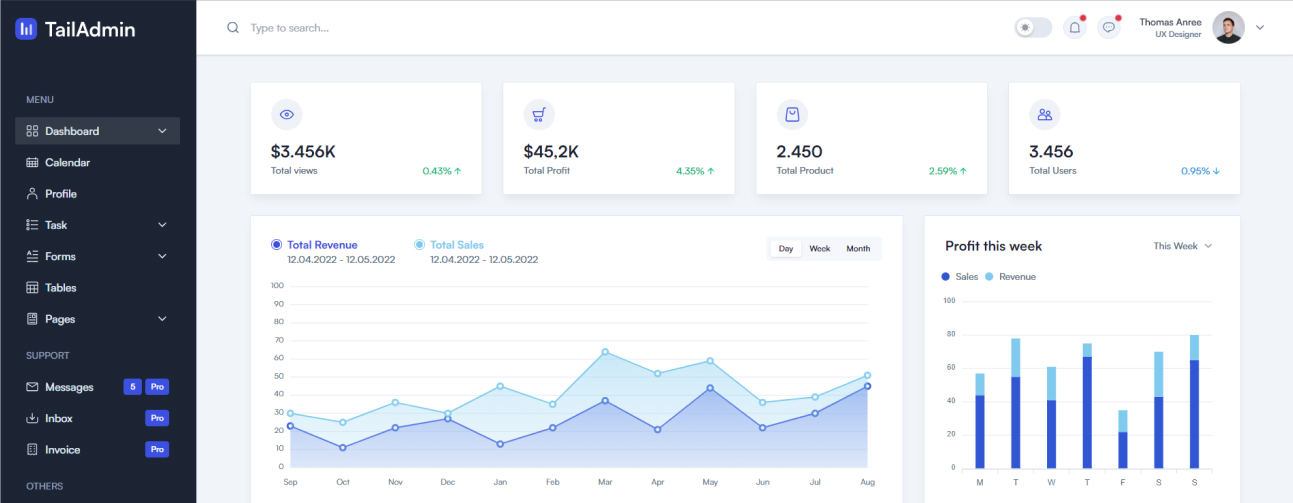
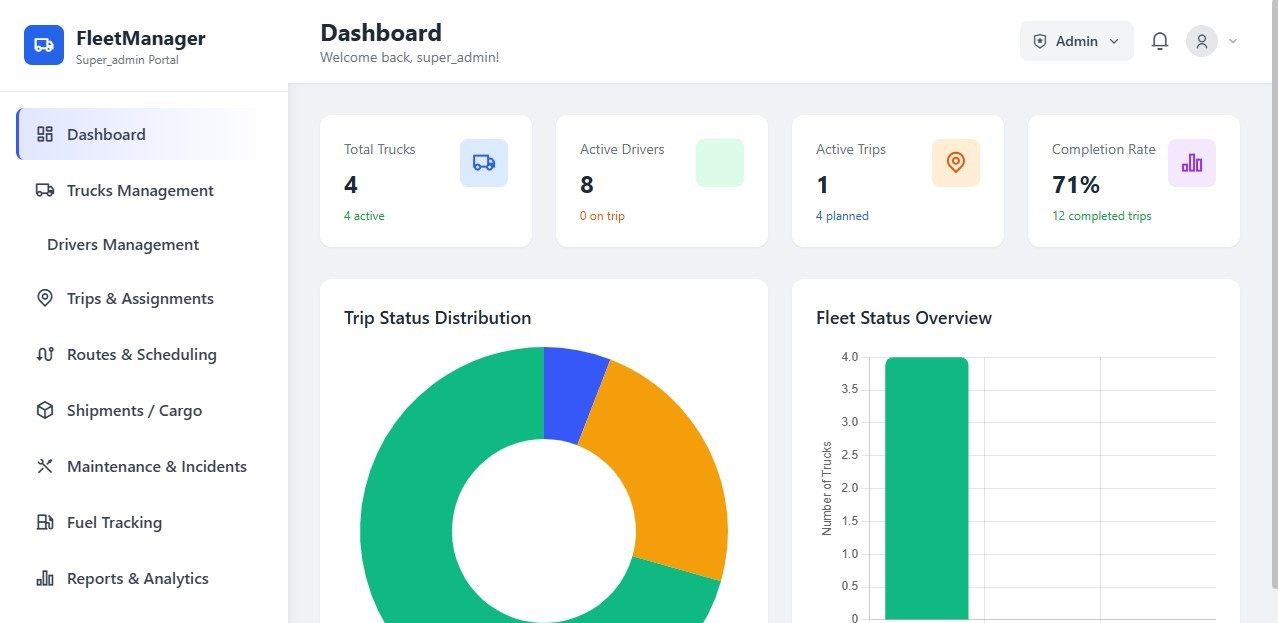
fixed front page bg

diff --git a/TruckDriverApp/src/screens/DashboardScreen.js b/TruckDriverApp/src/screens/DashboardScreen.js
@@ -128,12 +128,10 @@ export default function DashboardScreen() {
       setLoading(true);
       const driverId = await AsyncStorage.getItem('driverId');
       
-      console.log('Fetching coordinates for trip:', currentTrip.id);
       
       const response = await fetch(`${API_URL}/api/get_trip_coords.php?id=${currentTrip.id}&driver_id=${driverId}`);
       const data = await response.json();
-      
-      console.log('Response data:', data);
+
       
       if (data.success && data.start_lat && data.end_lat) {
         navigation.navigate('IntegratedMap', {

diff --git a/TruckDriverApp/src/screens/TripsScreen.js b/TruckDriverApp/src/screens/TripsScreen.js
@@ -78,8 +78,7 @@ const viewTripOnMap = async (trip) => {
     // Pass both trip ID and driver ID
     const response = await fetch(`${API_URL}/api/get_trip_coords.php?id=${trip.id}&driver_id=${driverId}`);
     const data = await response.json();
-    
-    console.log('Response data:', data);
+
     
     if (data.success && data.start_lat && data.end_lat) {
       navigation.navigate('IntegratedMap', {
